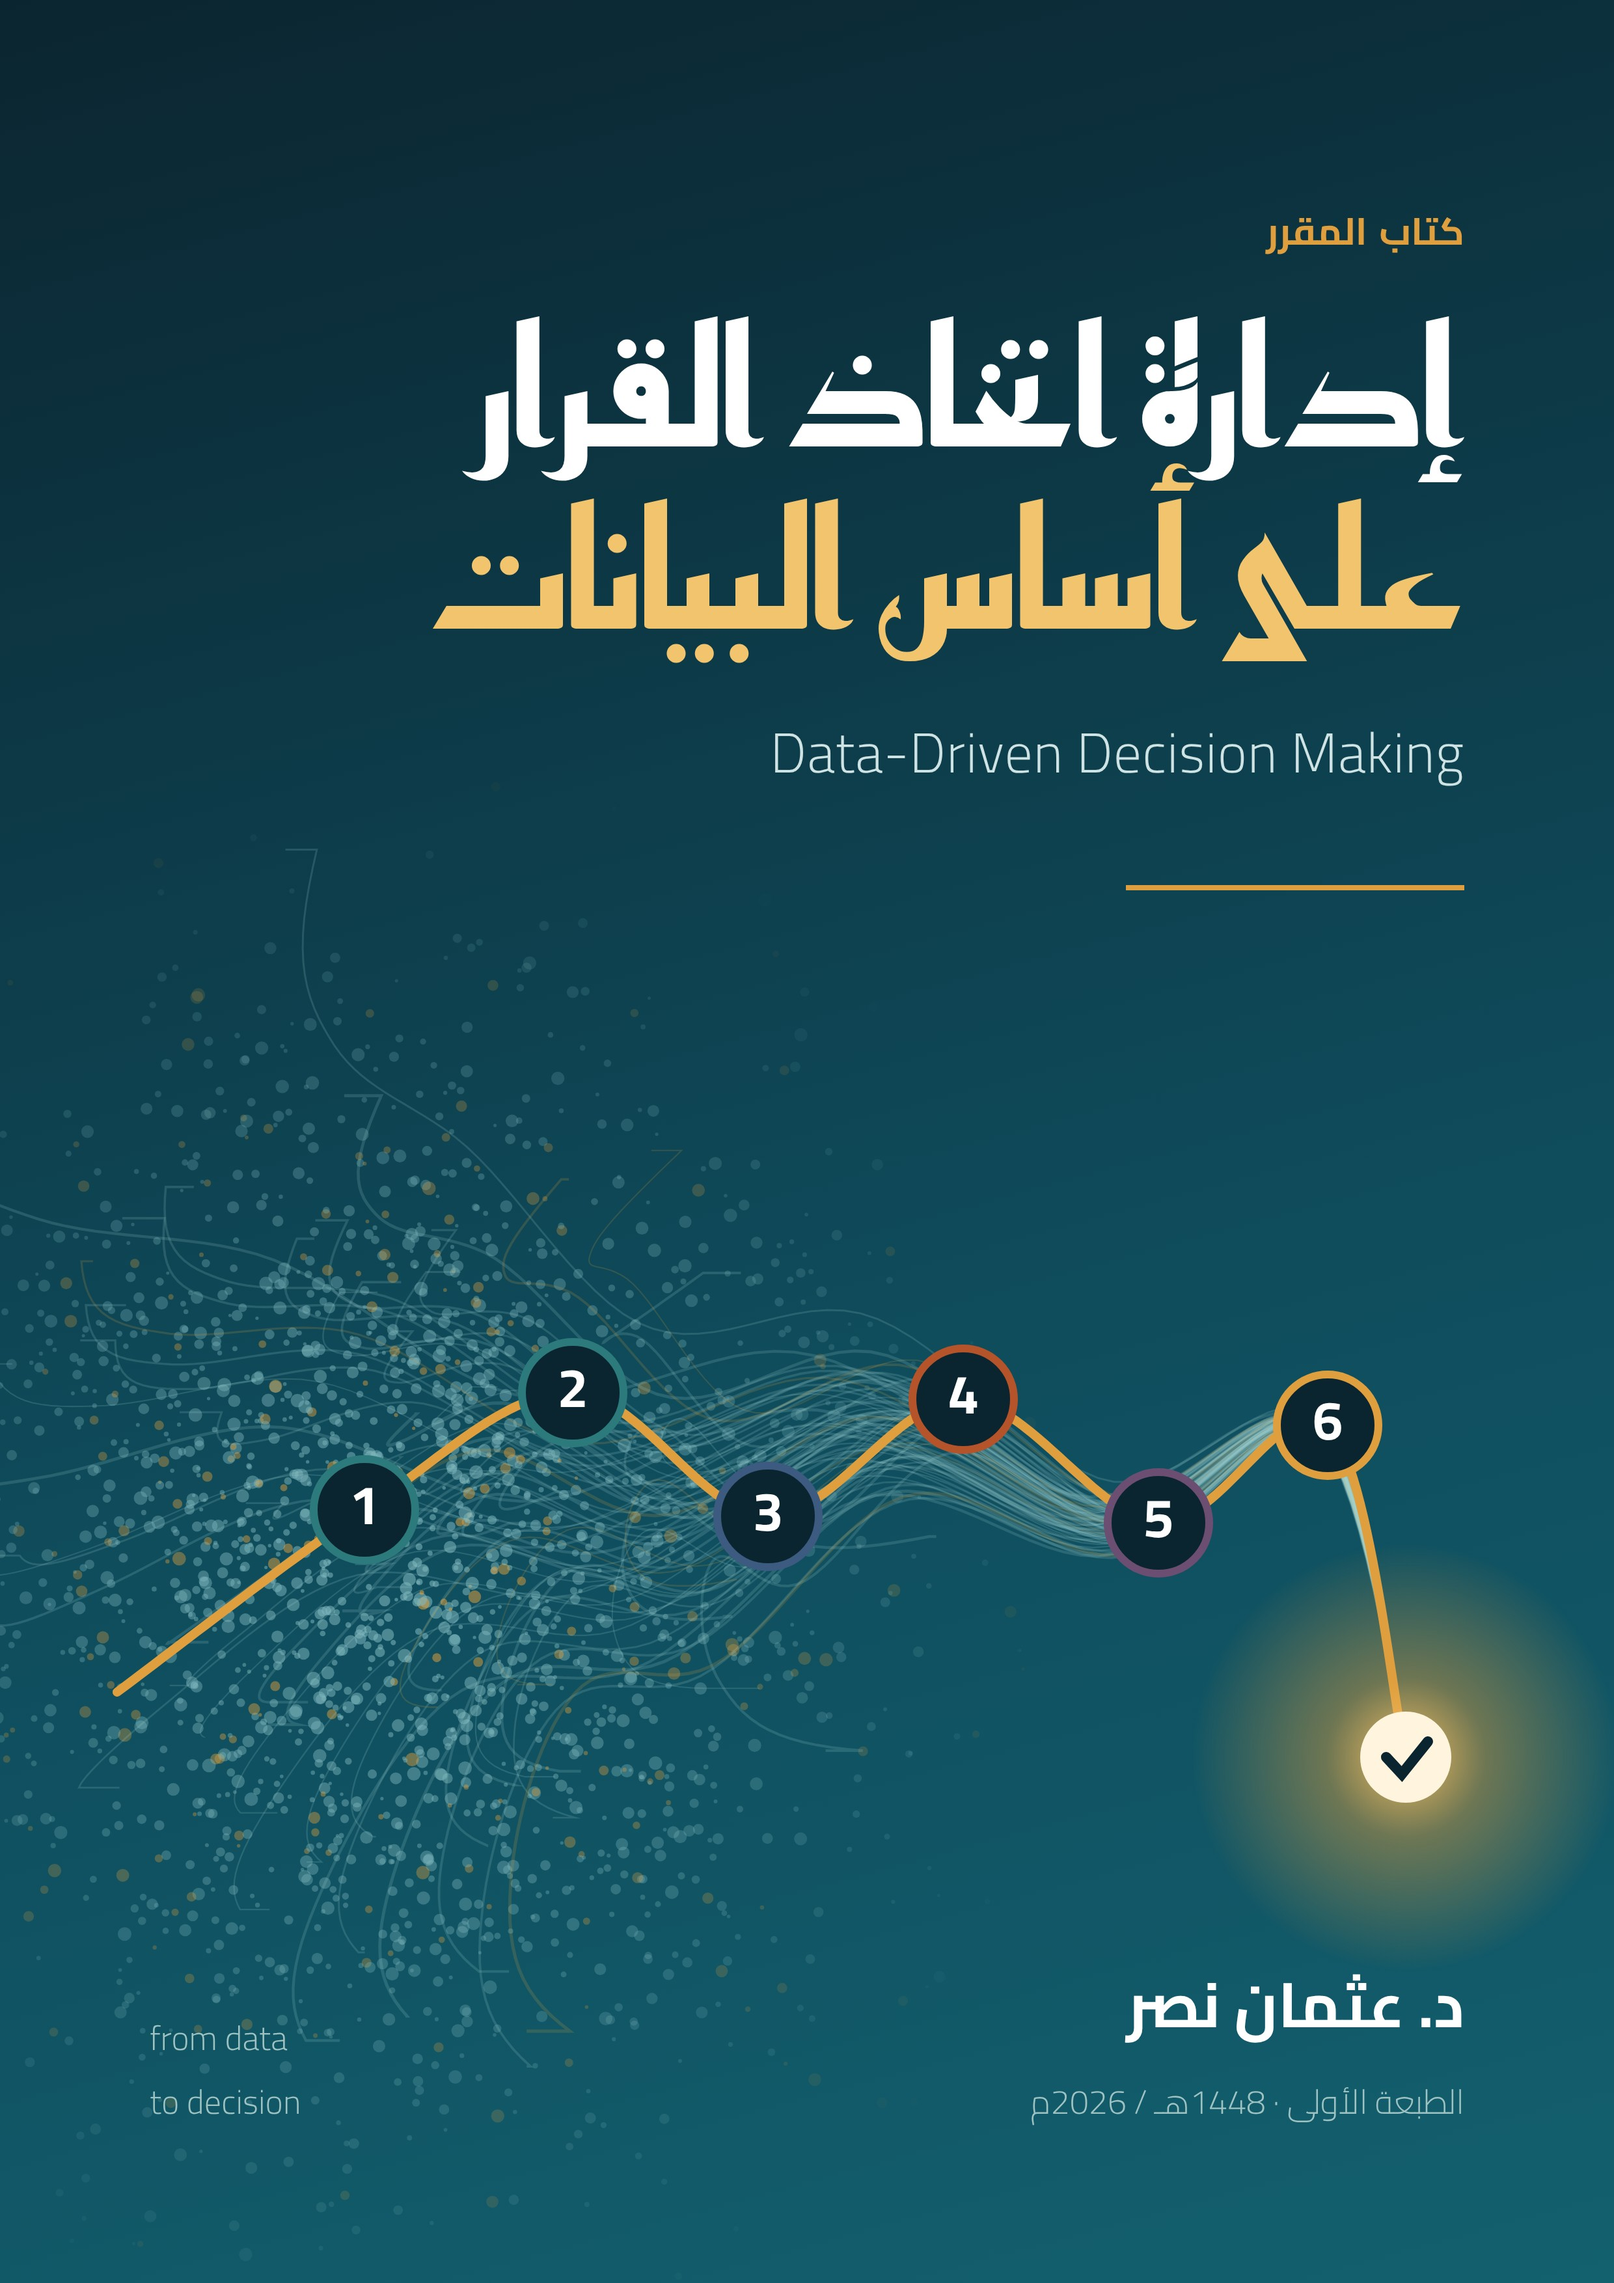
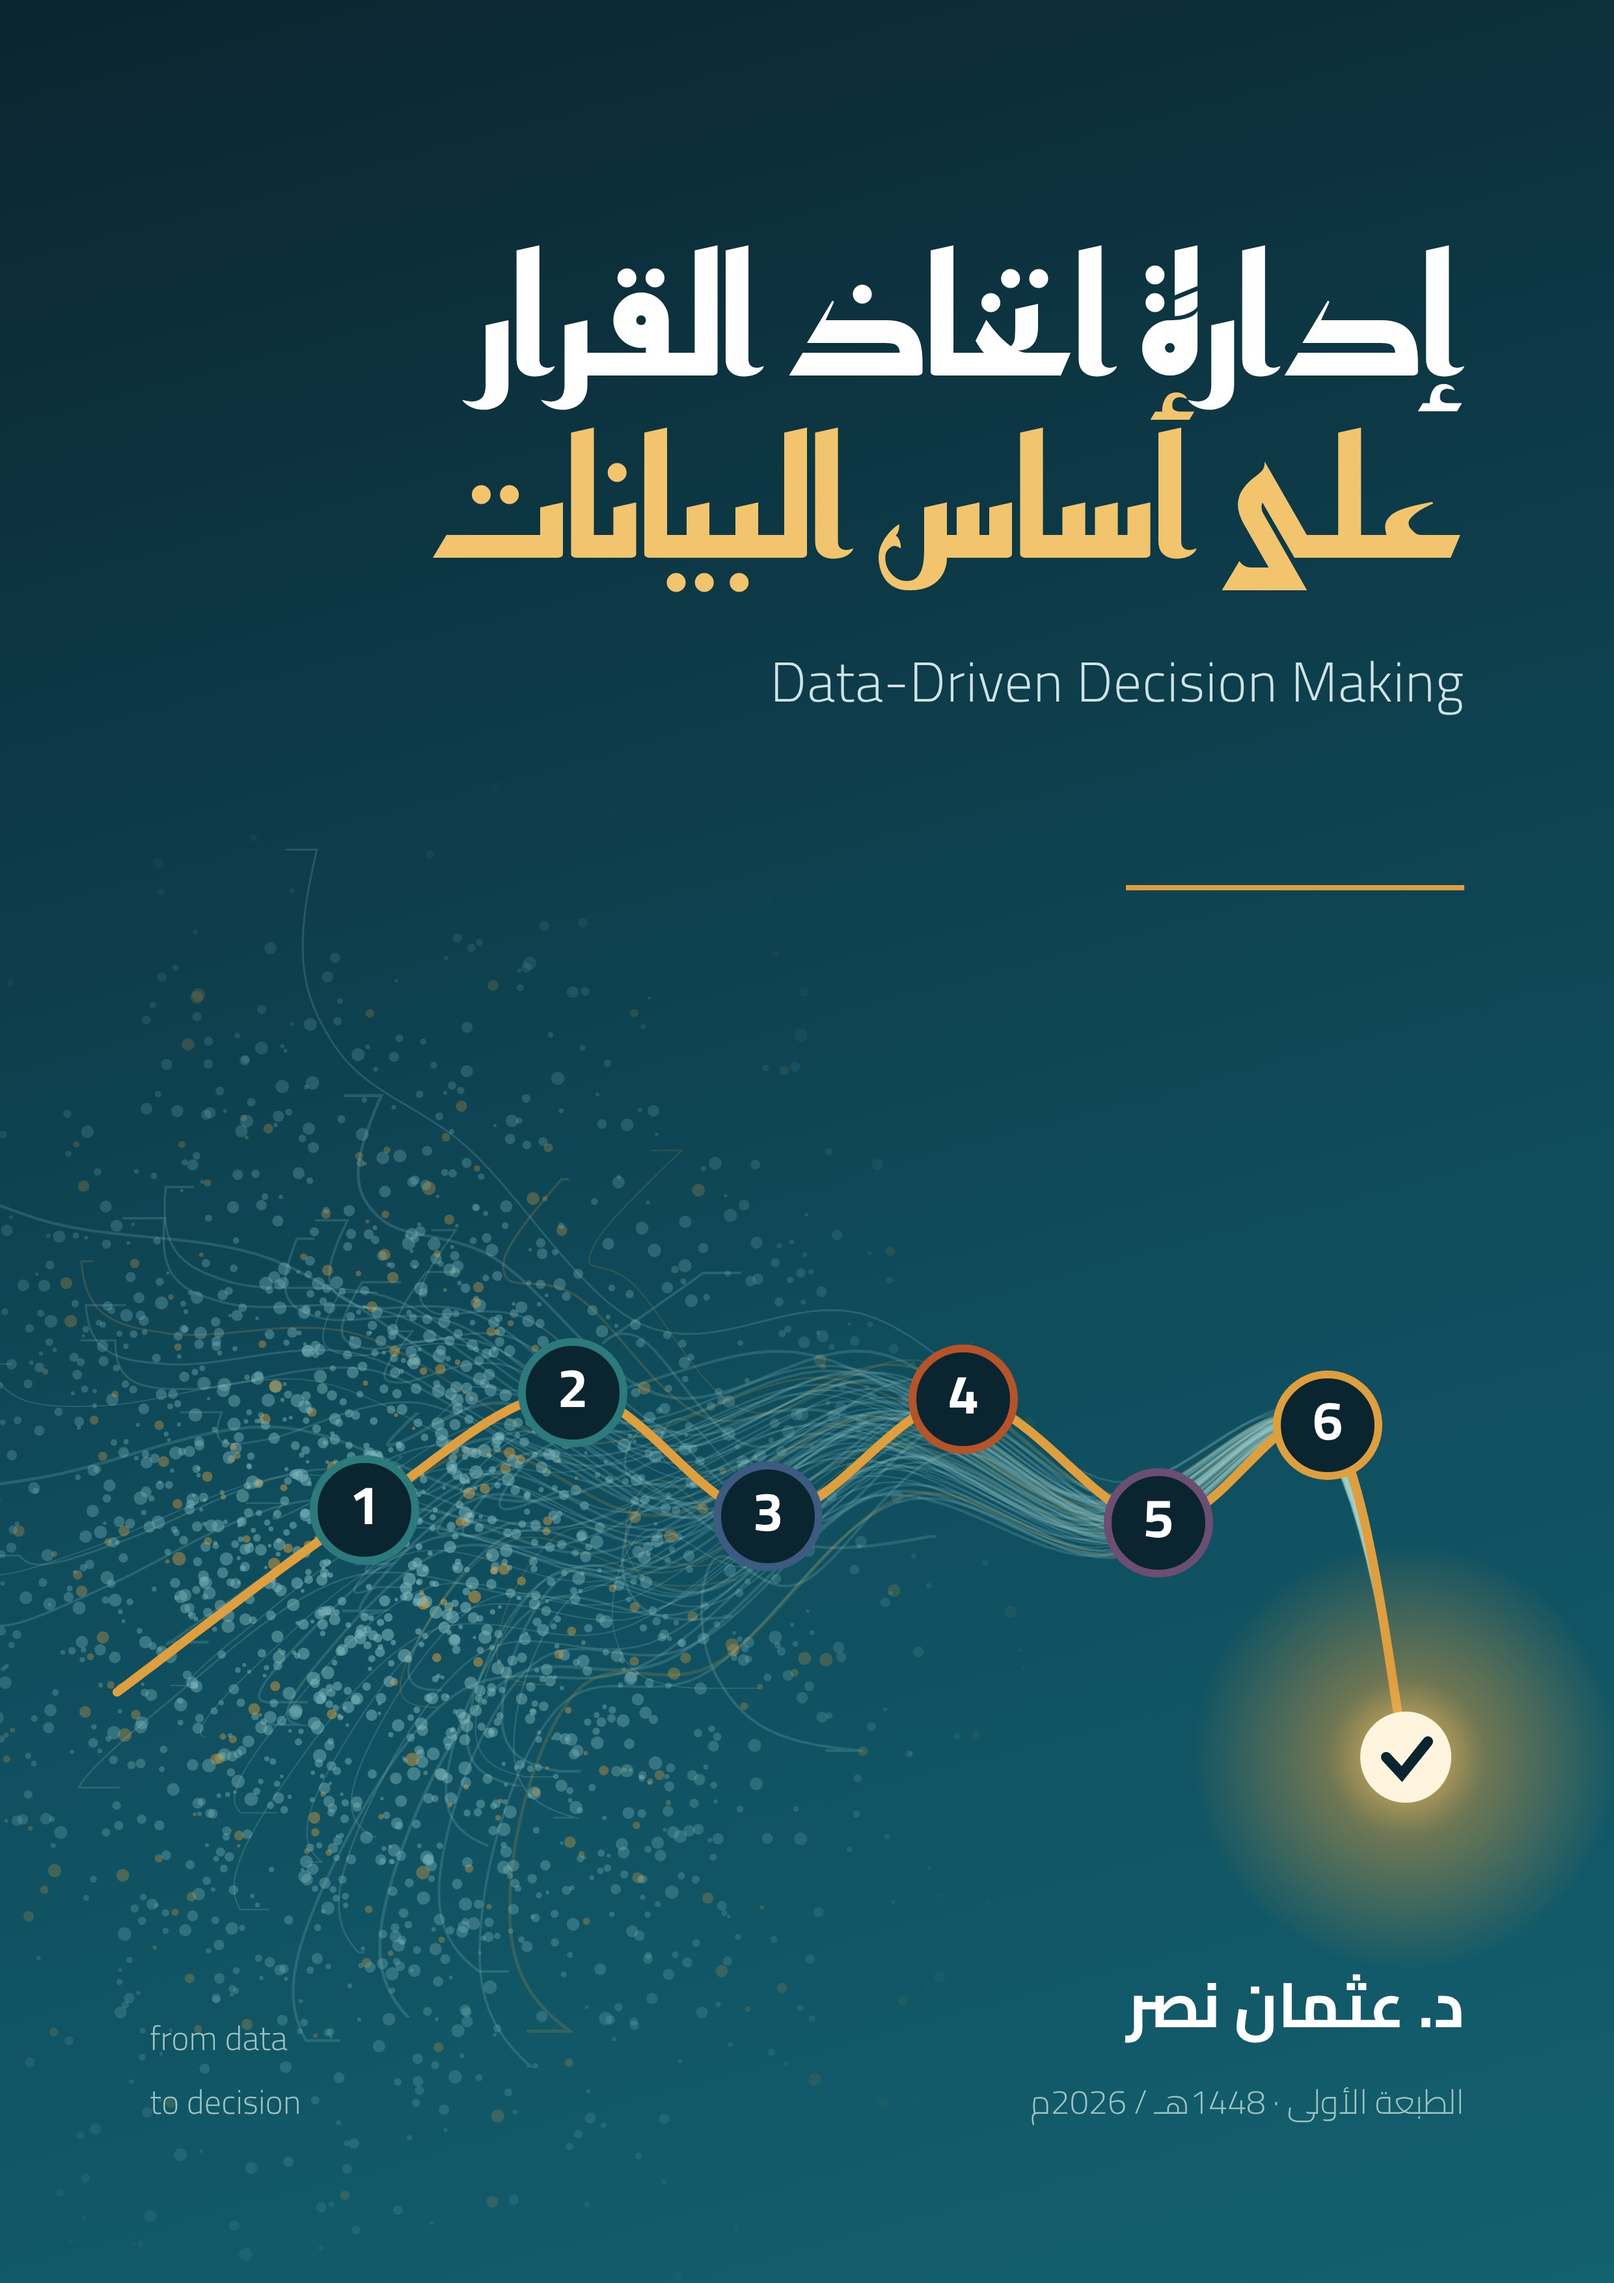
Remove label from book cover
Claude-Session: https://claude.ai/code/session_01Y2jhZqoHWaYa5RrJF4CgfQ

Changed region(s): [[0.2794, 0.0932, 0.9004, 0.3418]]

diff --git a/book/gen/cover/cover.html b/book/gen/cover/cover.html
@@ -17,7 +17,7 @@ canvas{position:absolute;inset:0}
 .mark{font-family:CairoL;font-size:52px;color:#9FC3C3;text-align:left;direction:ltr}
 .rule{position:absolute;right:230px;width:520px;height:8px;background:#E09F3E;top:1360px}
 </style></head><body><div class="c"><canvas id="cv" width="2480" height="3508"></canvas>
-<div class="top"><div class="k">كتاب المقرر</div>
+<div class="top">
 <div class="t">إدارة اتخاذ القرار<br><span>على أساس البيانات</span></div>
 <div class="e">Data-Driven Decision Making</div></div>
 <div class="rule"></div>
